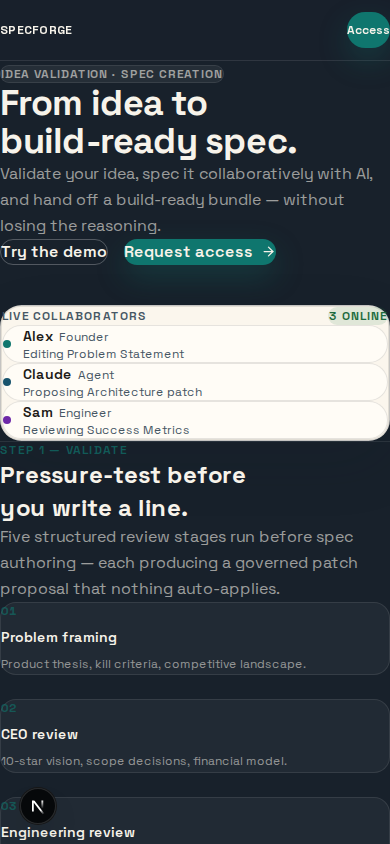
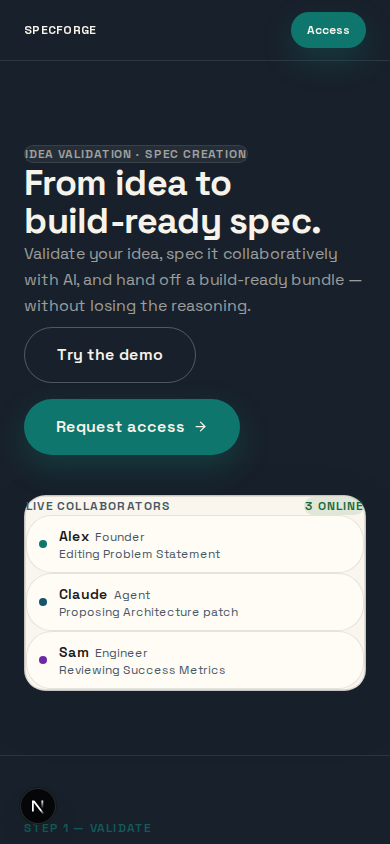
fix(web): bypass Tailwind @layer cascade — use inline styles for all padding/margin/max-width
Tailwind v4's @layer utilities are overridden by the base layer reset in Turbopack
dev, making all px-*, pl-*, ml-*, etc. compute to 0px. Height/color/border classes
work fine (not in the base reset). Fix: use React inline style={{}} for all layout
properties that need padding/margin/max-width.

- page.tsx: add container/sectionPad/cardItem inline style objects, apply to all sections
- site-nav.tsx: inline styles for container centering + nav link horizontal padding
- button.tsx: buttonPadding map applied as inline style prop per size; keep h-* classes
- card.tsx: clean up var() syntax to Tailwind v4 token shorthand (rounded-card, shadow-card)

Update README screenshots to reflect the fixed layout. [Agent: Claude Sonnet 4.6]

diff --git a/web/src/app/page.tsx b/web/src/app/page.tsx
@@ -7,6 +7,27 @@ import { Card, CardPanel } from "@/components/ui/card";
 
 const GITHUB_URL = "https://github.com/chimera-defi/specforge";
 
+// Container style — inline to bypass Turbopack @layer cascade issue
+const container: React.CSSProperties = {
+  maxWidth: "1100px",
+  marginLeft: "auto",
+  marginRight: "auto",
+  paddingLeft: "clamp(1.5rem, 5vw, 4rem)",
+  paddingRight: "clamp(1.5rem, 5vw, 4rem)",
+};
+
+const sectionPad: React.CSSProperties = {
+  paddingTop: "clamp(4rem, 8vw, 8rem)",
+  paddingBottom: "clamp(4rem, 8vw, 8rem)",
+};
+
+const cardItem: React.CSSProperties = {
+  paddingLeft: "0.75rem",
+  paddingRight: "0.75rem",
+  paddingTop: "0.625rem",
+  paddingBottom: "0.625rem",
+};
+
 const auditStages = [
   { n: "01", title: "Problem framing", sub: "Product thesis, kill criteria, competitive landscape." },
   { n: "02", title: "CEO review", sub: "10-star vision, scope decisions, financial model." },
@@ -34,7 +55,7 @@ export default function LandingPage() {
       />
 
       {/* ─── Hero ──────────────────────────────────────────── */}
-      <section className="mx-auto w-full max-w-[1100px] px-6 pb-16 pt-20 sm:px-10 md:pt-28 lg:px-16">
+      <section className="w-full" style={{ ...container, paddingTop: "5rem", paddingBottom: "4rem" }}>
         <div className="grid gap-10 lg:grid-cols-2 lg:items-center lg:gap-20">
           <div className="space-y-8">
             <Badge variant="outline" className="border-border-dark text-primary-foreground/60">
@@ -49,7 +70,7 @@ export default function LandingPage() {
               Validate your idea, spec it collaboratively with AI, and hand off a build-ready bundle — without losing the reasoning.
             </p>
 
-            <div className="flex flex-wrap gap-4 pt-2">
+            <div className="flex flex-wrap gap-4" style={{ paddingTop: "0.5rem" }}>
               <Button asChild variant="outline" size="lg">
                 <Link href="/workspace?source=landing_hero">Try the demo</Link>
               </Button>
@@ -77,7 +98,7 @@ export default function LandingPage() {
                   { name: "Claude", role: "Agent", action: "Proposing Architecture patch", dotClass: "bg-role-agent" },
                   { name: "Sam", role: "Engineer", action: "Reviewing Success Metrics", dotClass: "bg-role-design" },
                 ].map((p) => (
-                  <div key={p.name} className="flex items-center gap-3 rounded-xl border border-border bg-card px-3 py-2.5">
+                  <div key={p.name} className="flex items-center gap-3 rounded-xl border border-border bg-card" style={cardItem}>
                     <span className={`h-2 w-2 shrink-0 rounded-full ${p.dotClass}`} />
                     <div className="min-w-0 flex-1">
                       <div className="flex items-baseline gap-1.5">
@@ -89,7 +110,7 @@ export default function LandingPage() {
                   </div>
                 ))}
               </div>
-              <div className="hidden border-t border-border pt-3 sm:block">
+              <div className="hidden border-t border-border sm:block" style={{ paddingTop: "0.75rem" }}>
                 <p className="mb-2 text-xs font-semibold uppercase tracking-widest text-muted-foreground">
                   Review queue · 2 pending
                 </p>
@@ -97,7 +118,7 @@ export default function LandingPage() {
                   { block: "Problem Statement", type: "structural edit", status: "pending" },
                   { block: "Architecture", type: "task export change", status: "accepted" },
                 ].map((p) => (
-                  <div key={p.block} className="mb-2 flex items-center justify-between gap-2 rounded-xl border border-border bg-card px-3 py-2 last:mb-0">
+                  <div key={p.block} className="mb-2 flex items-center justify-between gap-2 rounded-xl border border-border bg-card last:mb-0" style={{ paddingLeft: "0.75rem", paddingRight: "0.75rem", paddingTop: "0.5rem", paddingBottom: "0.5rem" }}>
                     <div className="min-w-0">
                       <p className="truncate text-sm font-semibold text-foreground">{p.block}</p>
                       <p className="text-xs text-muted-foreground">{p.type}</p>
@@ -114,8 +135,7 @@ export default function LandingPage() {
       <div className="border-t border-border-dark" />
 
       {/* ─── Step 1: Validate ─────────────────────────────── */}
-      {/* Full-width step list — breaks rhythm from 2-col sections */}
-      <section className="mx-auto w-full max-w-[1100px] px-6 py-20 sm:px-10 lg:px-16 lg:py-32">
+      <section className="w-full" style={{ ...container, ...sectionPad }}>
         <div className="mb-12 max-w-[52ch] space-y-7">
           <p className="text-xs font-semibold uppercase tracking-widest text-accent/70">
             Step 1 — Validate
@@ -129,7 +149,7 @@ export default function LandingPage() {
         </div>
         <ol className="grid gap-6 sm:grid-cols-3 lg:grid-cols-5">
           {auditStages.map((s) => (
-            <li key={s.n} className="flex flex-col gap-2 rounded-2xl border border-border-dark bg-surface-elevated px-5 py-4">
+            <li key={s.n} className="flex flex-col gap-2 rounded-2xl border border-border-dark bg-surface-elevated" style={{ paddingLeft: "1.25rem", paddingRight: "1.25rem", paddingTop: "1rem", paddingBottom: "1rem" }}>
               <span className="text-xs font-bold tabular-nums text-accent/60">{s.n}</span>
               <p className="text-sm font-semibold text-primary-foreground">{s.title}</p>
               <p className="text-xs leading-relaxed text-primary-foreground/55">{s.sub}</p>
@@ -141,7 +161,7 @@ export default function LandingPage() {
       <div className="border-t border-border-dark" />
 
       {/* ─── Step 2: Spec ─────────────────────────────────── */}
-      <section className="mx-auto w-full max-w-[1100px] px-6 py-20 sm:px-10 lg:px-16 lg:py-32">
+      <section className="w-full" style={{ ...container, ...sectionPad }}>
         <div className="grid gap-12 lg:grid-cols-2 lg:items-center lg:gap-24">
           <div className="space-y-7">
             <p className="text-xs font-semibold uppercase tracking-widest text-accent/70">
@@ -170,7 +190,7 @@ export default function LandingPage() {
                 <Badge variant="success" className="shrink-0">1 accepted</Badge>
               </div>
               {reviewQueue.map((p) => (
-                <div key={p.block} className="mb-2 flex items-center justify-between gap-2 rounded-xl border border-border bg-card px-3 py-2.5 last:mb-0">
+                <div key={p.block} className="mb-2 flex items-center justify-between gap-2 rounded-xl border border-border bg-card last:mb-0" style={cardItem}>
                   <div className="min-w-0">
                     <p className="truncate text-sm font-semibold text-foreground">{p.block}</p>
                     <p className="text-xs text-muted-foreground">{p.type}</p>
@@ -186,9 +206,8 @@ export default function LandingPage() {
       <div className="border-t border-border-dark" />
 
       {/* ─── Step 3: Hand off ─────────────────────────────── */}
-      <section className="mx-auto w-full max-w-[1100px] px-6 py-20 sm:px-10 lg:px-16 lg:py-32">
+      <section className="w-full" style={{ ...container, ...sectionPad }}>
         <div className="grid gap-12 lg:grid-cols-2 lg:items-center lg:gap-24">
-          {/* Reverse column order on desktop — breaks visual rhythm */}
           <Card className="p-1 lg:order-2">
             <CardPanel>
               <p className="mb-3 text-xs font-semibold uppercase tracking-widest text-muted-foreground">
@@ -196,7 +215,7 @@ export default function LandingPage() {
               </p>
               <div className="space-y-2">
                 {handoffFiles.map((f) => (
-                  <div key={f} className="flex items-center justify-between gap-2 rounded-xl border border-border bg-card px-3 py-2">
+                  <div key={f} className="flex items-center justify-between gap-2 rounded-xl border border-border bg-card" style={{ paddingLeft: "0.75rem", paddingRight: "0.75rem", paddingTop: "0.5rem", paddingBottom: "0.5rem" }}>
                     <span className="min-w-0 truncate font-mono text-sm text-foreground">{f}</span>
                     <Badge variant="success" className="shrink-0">ready</Badge>
                   </div>
@@ -229,7 +248,7 @@ export default function LandingPage() {
 
       {/* ─── CTA ──────────────────────────────────────────── */}
       <div className="border-t border-border-dark" />
-      <section className="mx-auto w-full max-w-[1100px] px-6 py-20 sm:px-10 lg:px-16 lg:py-28">
+      <section className="w-full" style={{ ...container, paddingTop: "clamp(3rem, 6vw, 7rem)", paddingBottom: "clamp(3rem, 6vw, 7rem)" }}>
         <div className="flex flex-col gap-8 sm:flex-row sm:items-end sm:justify-between">
           <div className="space-y-3">
             <h2 className="max-w-[20ch] text-balance text-2xl font-bold leading-tight tracking-tight">
@@ -255,7 +274,7 @@ export default function LandingPage() {
 
       {/* ─── Footer ───────────────────────────────────────── */}
       <footer className="border-t border-border-dark">
-        <div className="mx-auto flex w-full max-w-[1100px] flex-col gap-4 px-6 py-8 sm:flex-row sm:items-center sm:justify-between sm:px-10 lg:px-16">
+        <div className="flex w-full flex-col gap-4 sm:flex-row sm:items-center sm:justify-between" style={{ ...container, paddingTop: "2rem", paddingBottom: "2rem" }}>
           <span className="text-xs font-black uppercase tracking-widest text-primary-foreground/35">
             SpecForge
           </span>

diff --git a/web/src/components/site-nav.tsx b/web/src/components/site-nav.tsx
@@ -47,7 +47,7 @@ export function SiteNav({
           : "sticky top-0 z-50 w-full border-b border-border bg-background/90 backdrop-blur-xl"
       }
     >
-      <div className="mx-auto flex min-h-[3.75rem] w-full max-w-[1100px] items-center justify-between px-6 sm:px-10 lg:px-16">
+      <div style={{ maxWidth: "1100px", marginLeft: "auto", marginRight: "auto", paddingLeft: "clamp(1.5rem, 4vw, 4rem)", paddingRight: "clamp(1.5rem, 4vw, 4rem)" }} className="flex min-h-[3.75rem] w-full items-center justify-between">
         <Link
           href="/"
           className={
@@ -59,28 +59,29 @@ export function SiteNav({
           SpecForge
         </Link>
 
-        <nav className="flex items-center gap-0.5">
+        <nav className="flex items-center gap-1">
           {NAV_LINKS.map((link) => {
             const cls = [
               hideClass[link.hideBelow ?? "sm"],
-              "min-h-[2.75rem] items-center px-3 text-sm transition-colors",
+              "min-h-[2.75rem] items-center text-sm transition-colors",
               isDark
                 ? "text-primary-foreground/55 hover:text-primary-foreground/90"
                 : "text-muted-foreground hover:text-foreground",
             ].join(" ");
 
+            const linkPad = { paddingLeft: "0.75rem", paddingRight: "0.75rem" };
             return link.external ? (
-              <a key={link.href} href={link.href} target="_blank" rel="noreferrer" className={cls}>
+              <a key={link.href} href={link.href} target="_blank" rel="noreferrer" className={cls} style={linkPad}>
                 {link.label}
               </a>
             ) : (
-              <Link key={link.href} href={link.href} className={cls}>
+              <Link key={link.href} href={link.href} className={cls} style={linkPad}>
                 {link.label}
               </Link>
             );
           })}
 
-          <Button asChild variant={ctaVariant} size="sm" className="ml-2 whitespace-nowrap">
+          <Button asChild variant={ctaVariant} size="sm" style={{ marginLeft: "0.75rem" }} className="whitespace-nowrap">
             <Link href={ctaHref}>
               <span className="sm:hidden">Access</span>
               <span className="hidden sm:inline">{ctaLabel}</span>

diff --git a/web/src/components/ui/button.tsx b/web/src/components/ui/button.tsx
@@ -9,7 +9,7 @@ const buttonVariants = cva(
     variants: {
       variant: {
         default:
-          "bg-accent text-accent-foreground shadow-[var(--shadow-accent)] hover:-translate-y-px hover:bg-teal-hover hover:shadow-[var(--shadow-accent-hover)]",
+          "bg-accent text-accent-foreground shadow-accent hover:-translate-y-px hover:bg-teal-hover hover:shadow-[var(--shadow-accent-hover)]",
         primary:
           "bg-primary text-primary-foreground hover:bg-ink-dark",
         secondary:
@@ -24,9 +24,9 @@ const buttonVariants = cva(
           "text-accent underline-offset-4 hover:underline",
       },
       size: {
-        default: "h-11 px-5 py-2",
-        sm: "h-9 px-4 text-xs",
-        lg: "px-8 py-4 text-base",
+        default: "h-11",
+        sm: "h-9 text-xs",
+        lg: "h-14 text-base",
         icon: "h-10 w-10",
       },
     },
@@ -43,12 +43,20 @@ export interface ButtonProps
   asChild?: boolean;
 }
 
+const buttonPadding: Record<string, React.CSSProperties> = {
+  default: { paddingLeft: "1.25rem", paddingRight: "1.25rem" },
+  sm: { paddingLeft: "1rem", paddingRight: "1rem" },
+  lg: { paddingLeft: "2rem", paddingRight: "2rem" },
+  icon: {},
+};
+
 const Button = React.forwardRef<HTMLButtonElement, ButtonProps>(
-  ({ className, variant, size, asChild = false, ...props }, ref) => {
+  ({ className, variant, size, asChild = false, style, ...props }, ref) => {
     const Comp = asChild ? Slot : "button";
     return (
       <Comp
         className={cn(buttonVariants({ variant, size, className }))}
+        style={{ ...buttonPadding[size ?? "default"], ...style }}
         ref={ref}
         {...props}
       />

diff --git a/web/src/components/ui/card.tsx b/web/src/components/ui/card.tsx
@@ -6,7 +6,7 @@ const Card = React.forwardRef<HTMLDivElement, React.HTMLAttributes<HTMLDivElemen
     <div
       ref={ref}
       className={cn(
-        "rounded-[var(--radius-card)] border border-border bg-card shadow-[var(--shadow-card)] transition-all duration-300",
+        "rounded-card border border-border bg-card shadow-card transition-all duration-300",
         className,
       )}
       {...props}
@@ -59,7 +59,7 @@ const CardPanel = React.forwardRef<HTMLDivElement, React.HTMLAttributes<HTMLDivE
     <div
       ref={ref}
       className={cn(
-        "rounded-[var(--radius-panel)] border border-border bg-surface-light p-4",
+        "rounded-panel border border-border bg-surface-light p-4",
         className,
       )}
       {...props}
